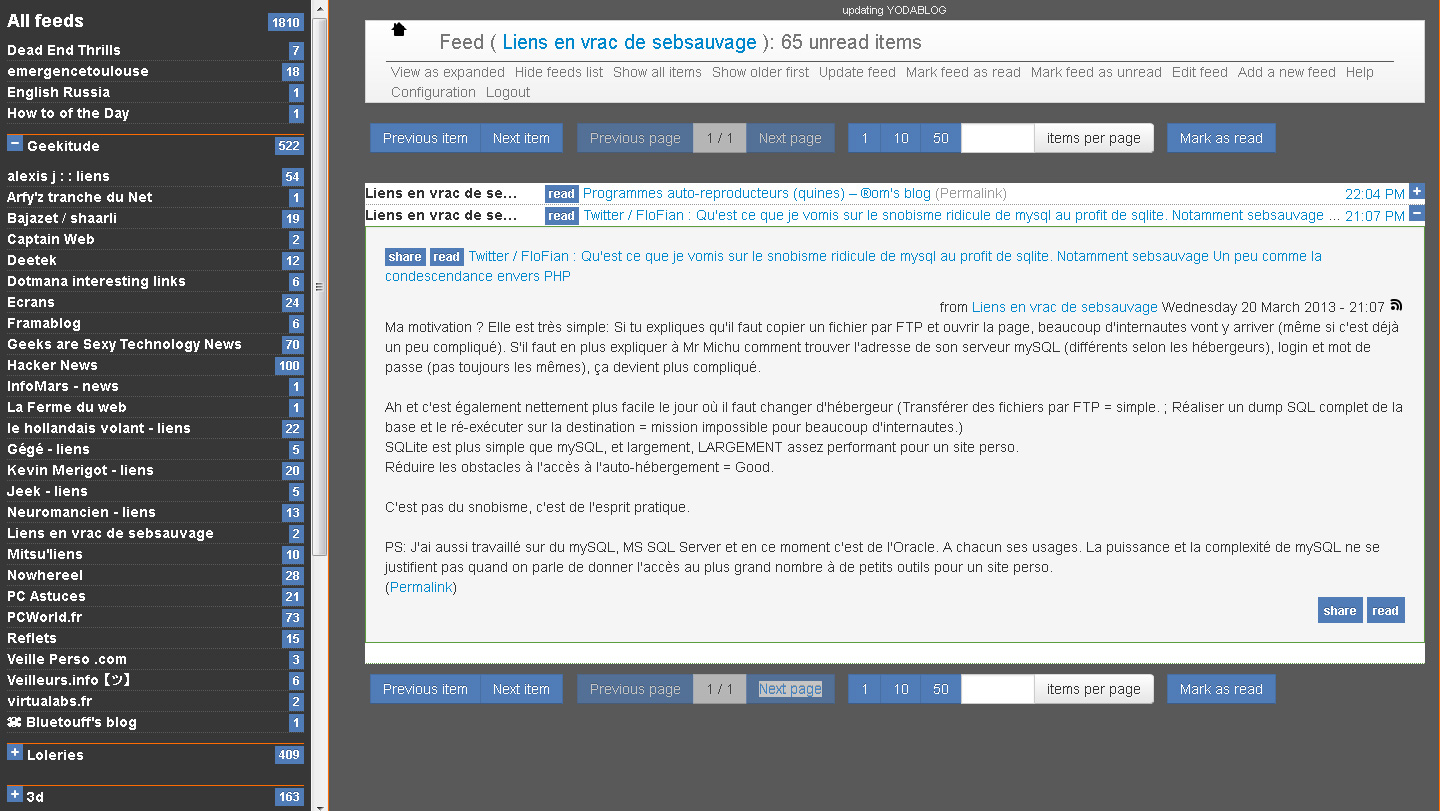
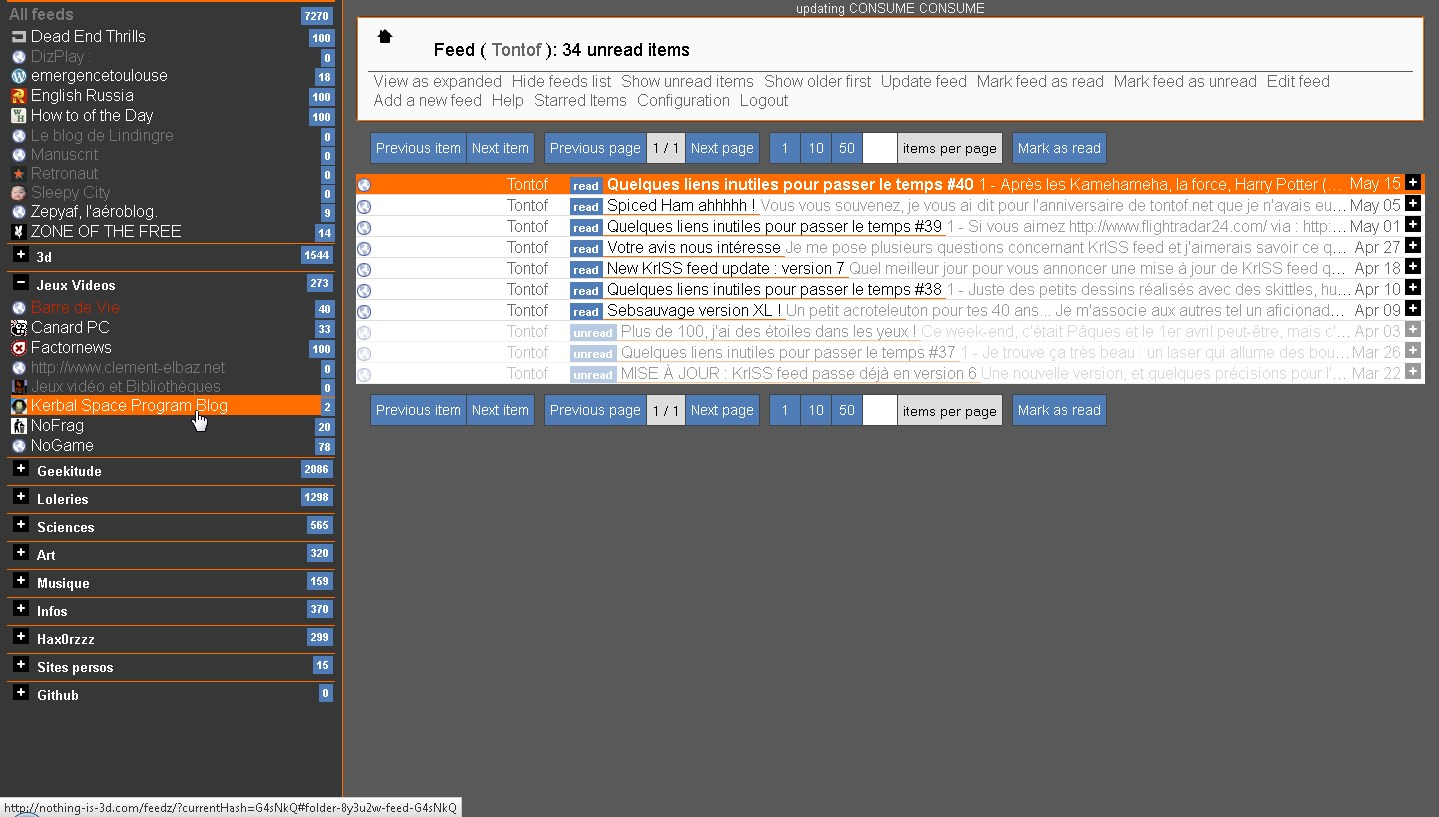
adaptation du css
c'est pas encore ça, mais voilà déjà la base depuis la màj du template

diff --git a/style/vinc3r/user.css b/style/vinc3r/user.css
@@ -1,11 +1,16 @@
 body{background-color: #595959; /* gris */}
+.form-horizontal{color:#fff;}
+#status a{
+	color: #fff;
+	
+	}
 #menu a{
 	margin: 0;
 	padding: 0 5px;
 	font-size: 1em;
 	text-shadow:none;
 }
-#menu a:hover{
+#menu a:hover, li.folder > h5:hover, li.folder > h4:hover, #minor-container li a:hover, li.feed:hover{
 	background-color: #ff6c00; /* orange */
 	color: #fff;
 }
@@ -20,25 +25,47 @@ body, #minor-container{border-right: 1px solid #ff6c00; /* orange */}
 #minor-container{
 	background-color: #373737; /* gris fonce */
 	padding:0 0.5%;
+	width: 23%;
 }
-#minor-container li a{color: #fff;}
-#minor-container li a:hover{
-	color: #507cb7; /* bleu */
-	text-decoration: none;
-}
+#minor-container li a{color: #777;}
+#minor-container li a:hover{text-decoration: none;}
+.container{border:1px #ff6c00 solid;}
 .container-fluid {
     padding-right: 1%;
     padding-left: 0;
 }
 #list-items{background-color: #fff;}
-.current{border-color: #5c9c3f !important; /* vert */}
+#minor-container li.feed.has-unread a{color:#fff;font-weight: normal;}
 .btn-info{background-image: none;}
 .btn{box-shadow: none;}
 .btn:hover, .btn:focus{transition:0;}
-li.feed{border-color: #595959; /* gris */}
-h5{border-top: 1px solid #ff6c00; /* orange */}
+li.folder > h5, li.folder > h4{
+	border:0;
+	border-top: 1px solid #ff6c00; /* orange */
+	border-radius:0;
+	background: none;
+	}
+li.folder > h4{border-top: 2px solid #ff6c00; /* orange */}
+#minor-container h5 a{color: #fff;}
+a.feed.text-error {color: #cc2200 !important; /* rouge */}
 #status{
 	color: #eee;
 	font-size: 0.8em;
 }
-ul.nav{border-top: 1px solid #595959;}
+ul.nav{border-top: 1px solid #595959; /* gris */}
+.ico-b-disc{border-radius: 0;}
+.item-list{background-color:#fff;}
+.current{
+	background-color: #ff6c00;
+	padding: 0;
+	color: #fff;
+	}
+	.current a{color: #fff;}
+.well{
+	background-color: #fff;
+	margin:0;
+	border:2px solid #ff6c00;
+	color: #000;
+	}
+	.well a{color: #000;}
+.item-title{border-bottom: 1px solid #ff6c00;}
